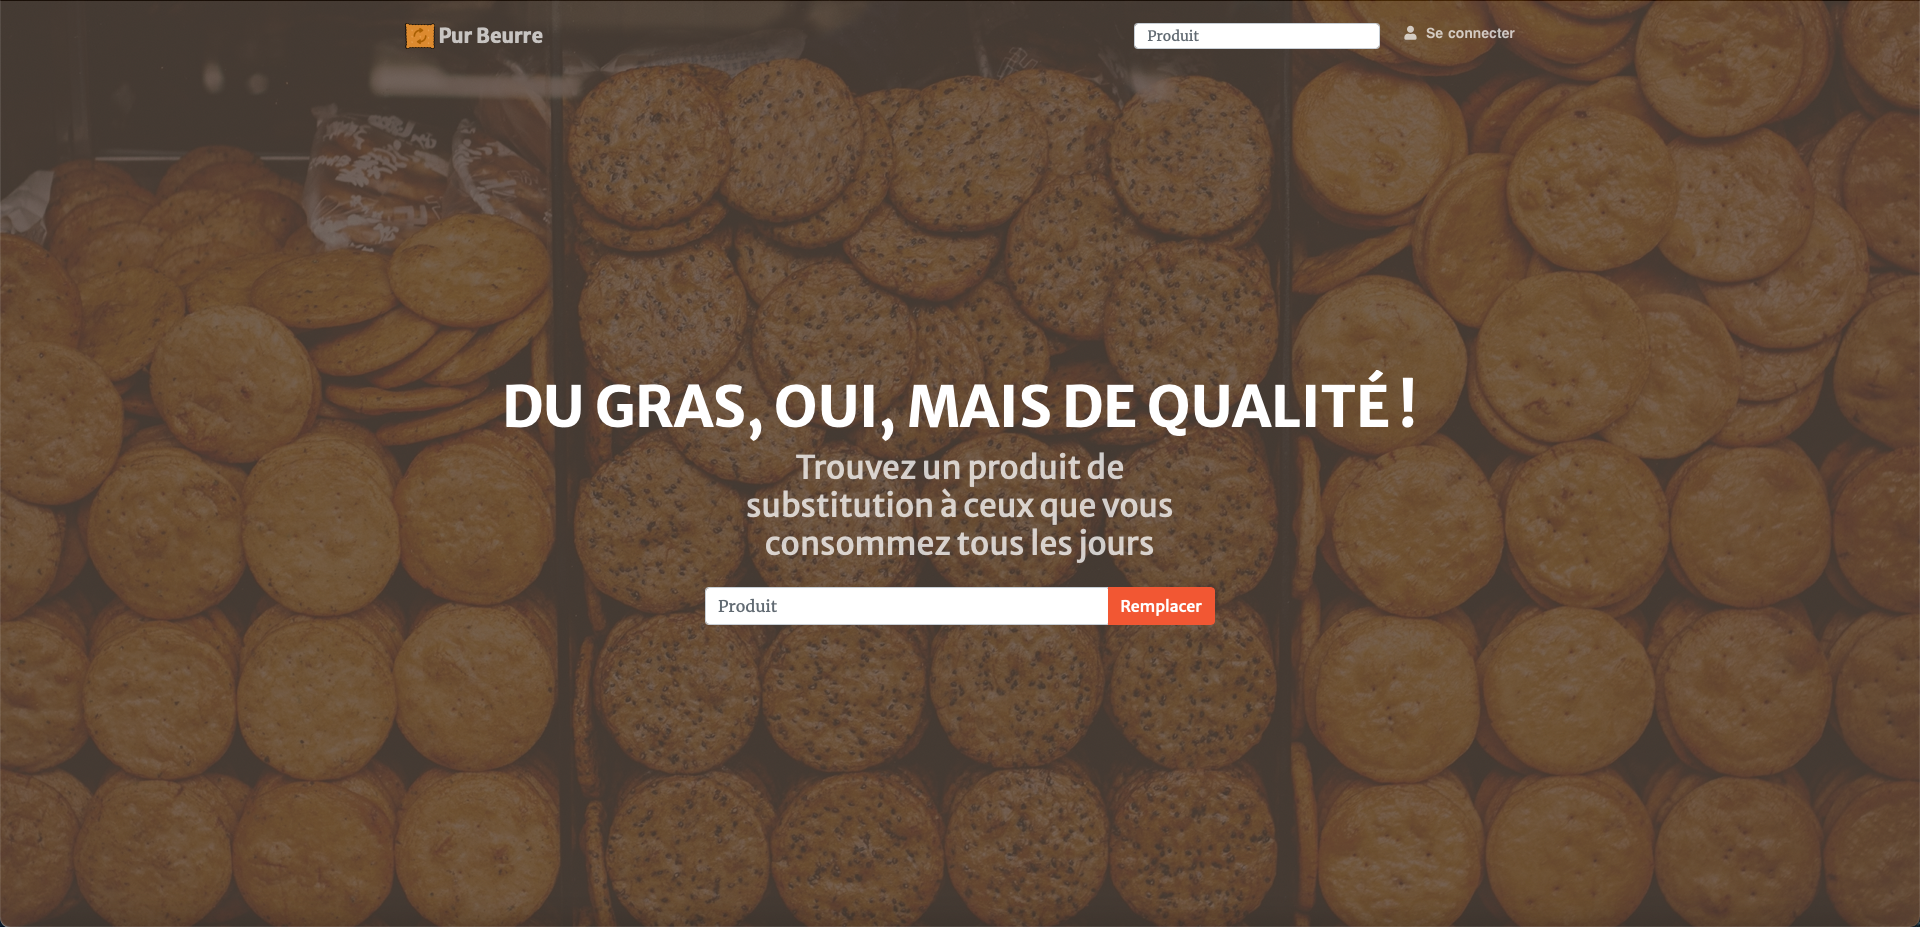
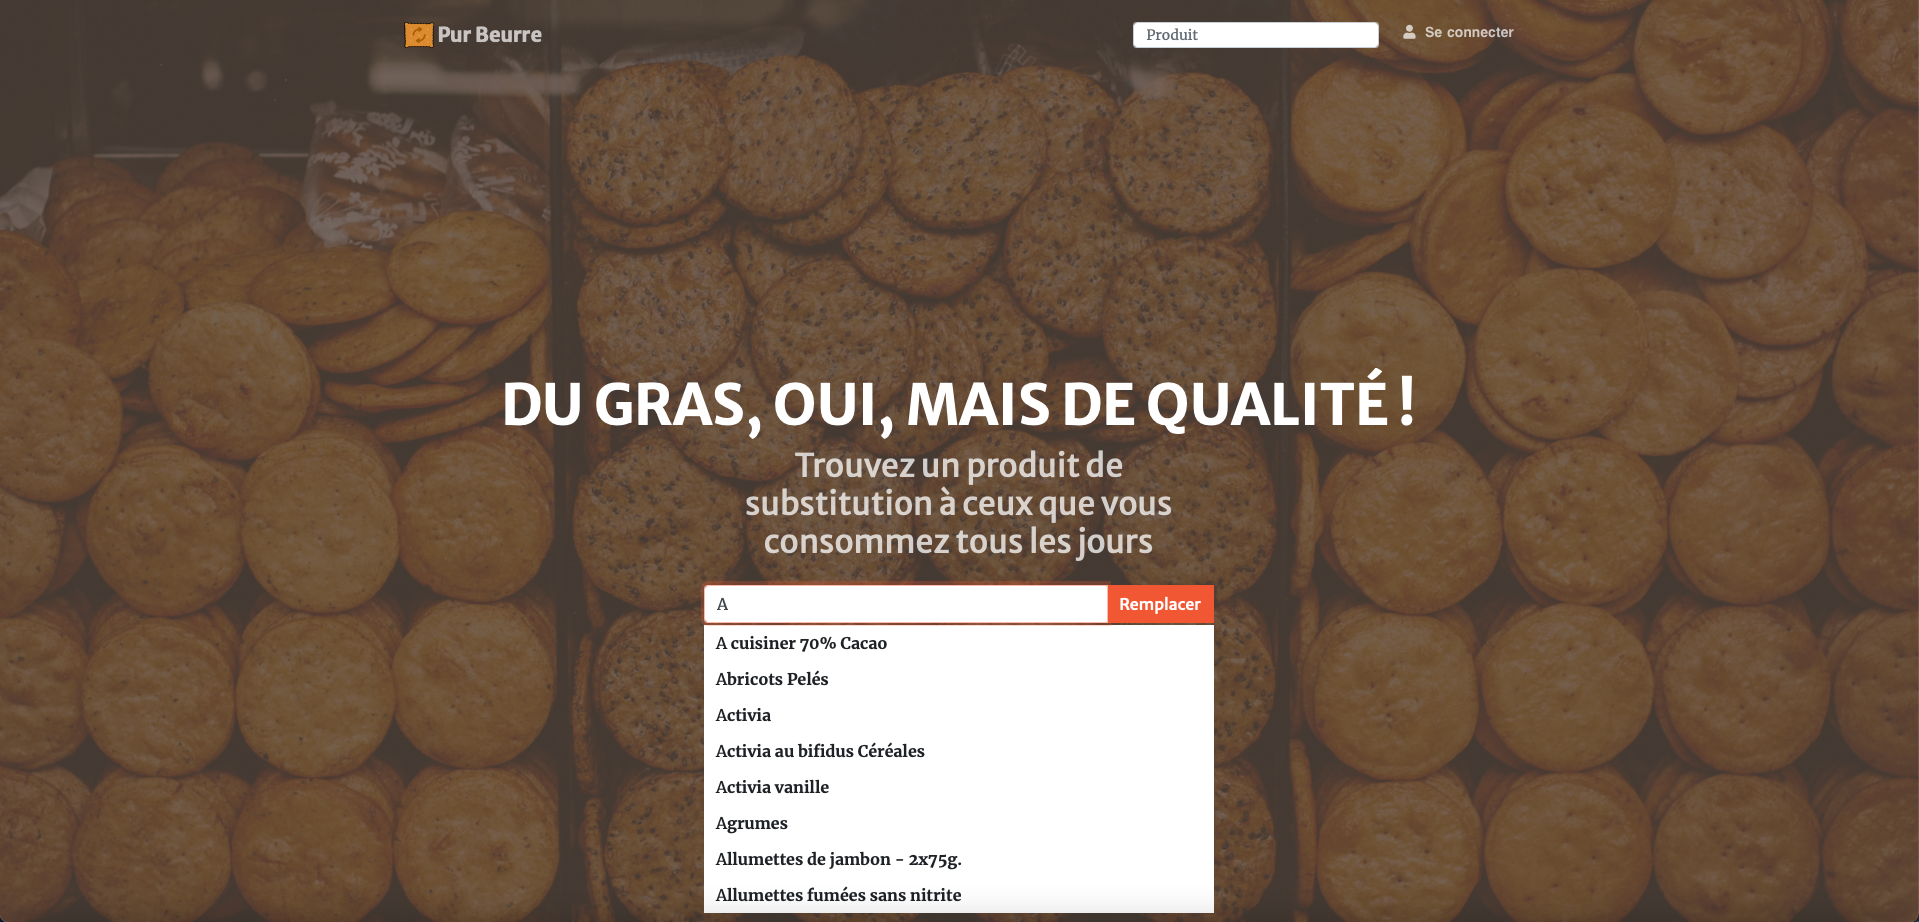
Mise à jour du readme

diff --git a/readme.md b/readme.md
@@ -1,4 +1,4 @@
-# P10
+# P11
 
 ## Qu'est-ce que c'est ?
 
@@ -6,7 +6,7 @@
     <img src="illust/dsk_1.png"><br>
 </div>
 
-P10 consiste au déploiement de P8 sur une IAAS (Digital ocean...) et consitue le 10ème projet du parcours développeur d'application Python d'OpenClassrooms. 
+P11 consitue le 11ème projet du parcours développeur d'application Python d'OpenClassrooms et consiste en une amélioration du P8 avec **l'ajout d'une fonctionnalité d'autocomplétion des recherches.**  
 
 Pour rappel, P8 est une plateforme web pour amateurs de Nutella qui permet notamment : 
 - Le remplacement d'un aliment : entrez le nom de l'aliment dans le champ de recherche de la page d'acceuil, le site vous donnera un aliment de la même catégorie plus sain
@@ -34,4 +34,3 @@ Les données alimentaires indispensables à son bon fonctionnement sont gracieus
 ## Comment ça s'installe ?
 
 **Aucune installation est nécessaire**, l'app est accessible à l'adresse : https://purbeurre.space
-
